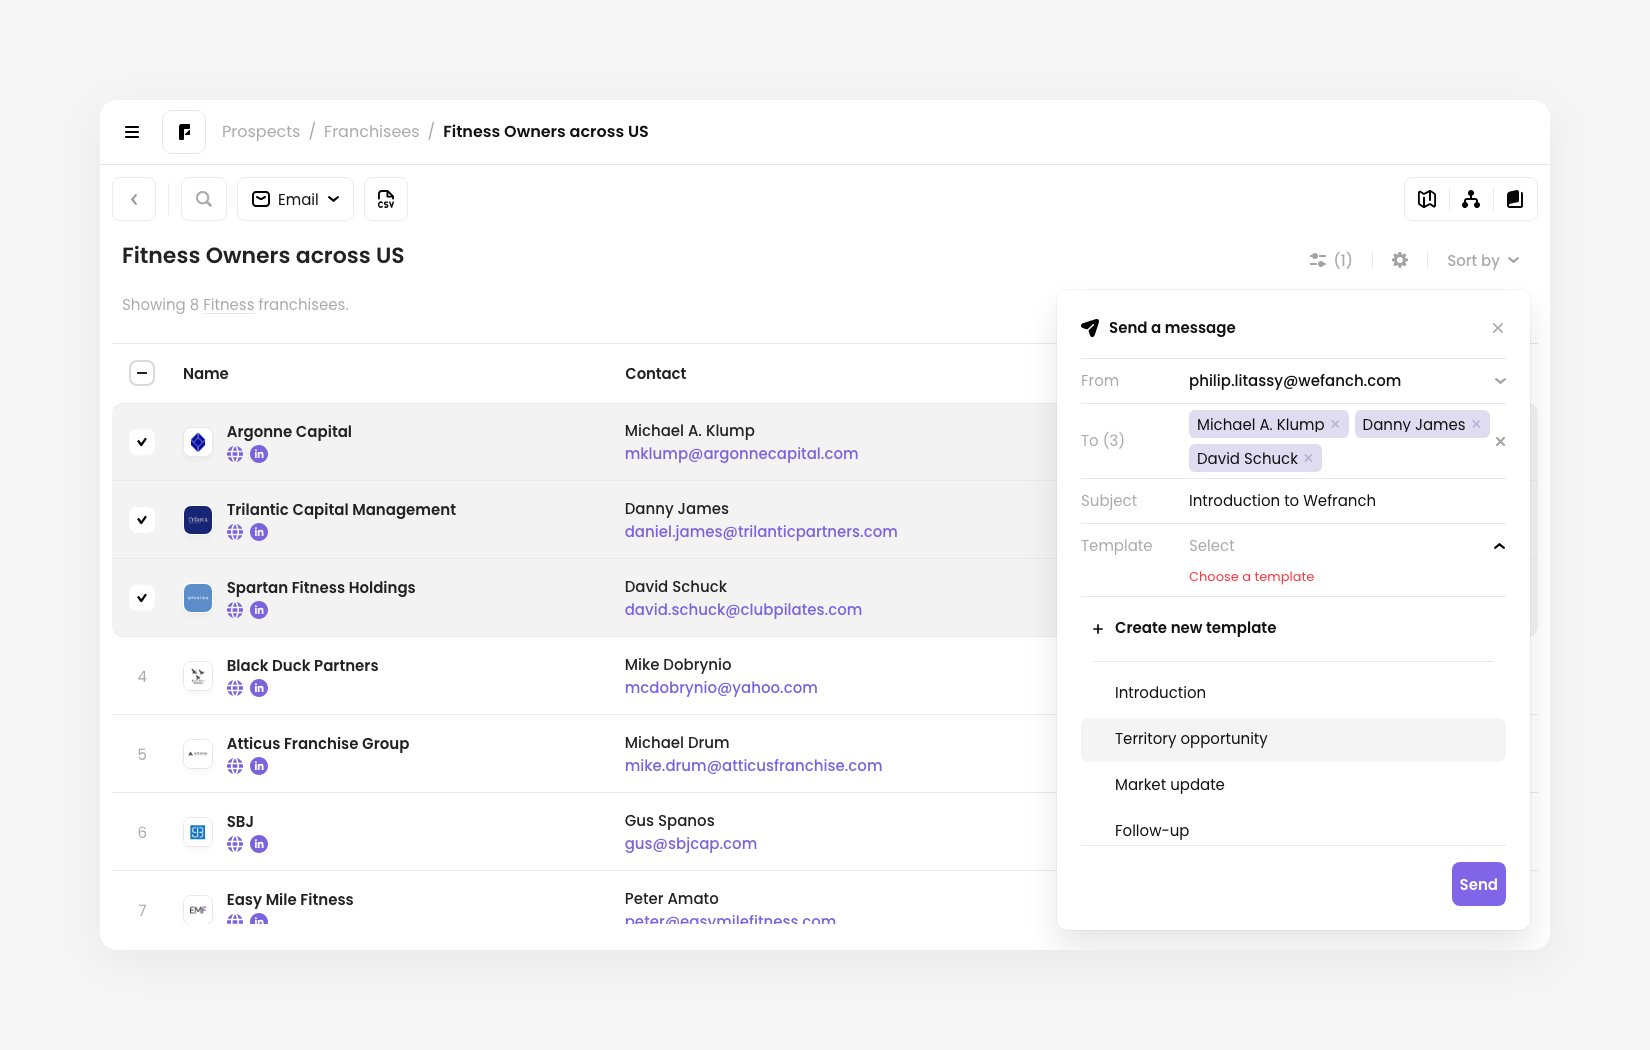
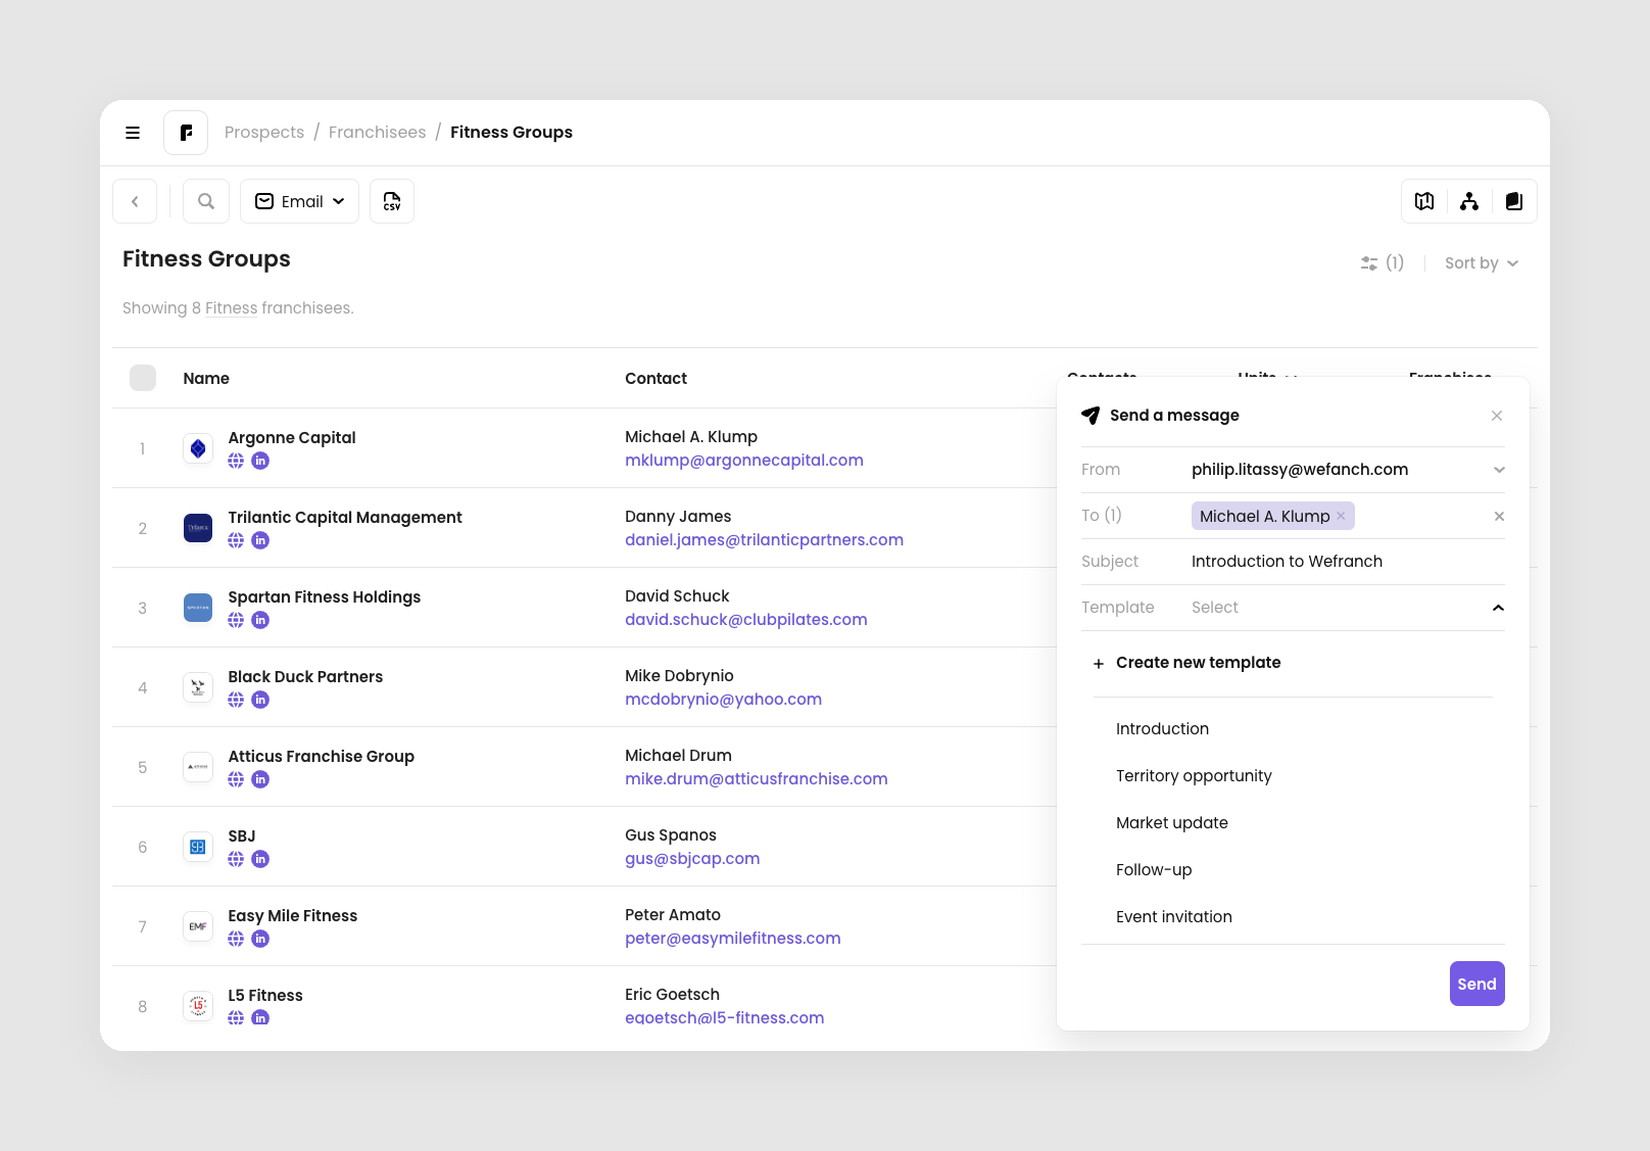
Updated Docs Email Campaigns One-to-One Emailing Updated contact cell actions in CST Table

diff --git a/_prototypes/docs/data/email-campaigns/one-to-one-emailing/index.html b/_prototypes/docs/data/email-campaigns/one-to-one-emailing/index.html
@@ -68,7 +68,7 @@
         <header>
           <h1 class="doc-title">Sending 1:1 direct email messages</h1>
           <div class="doc-meta">
-            <p class="doc-updated">Updated <time datetime="2026-10-13">Oct 13, 2026</time></p>
+            <p class="doc-updated">Updated <time datetime="2026-10-20">Oct 20, 2026</time></p>
             <span class="doc-meta-divider" aria-hidden="true"></span>
             <button class="doc-markdown" type="button" aria-label="Switch to markdown" data-tooltip="Switch to markdown">
               <img class="doc-markdown-icon" src="../../../../../assets/icons/code-block.svg" alt="" width="16" height="16" />
@@ -79,29 +79,25 @@
 
         <div class="doc-body">
           <h2>How it works</h2>
-          <p>Direct mailing lets you send a pre-built email template to one contact, or to a few, without setting up a campaign. Use it for a quick introduction or a follow-up to someone you found on <a class="ui-link" href="../../../../cst/">Prospects</a>.</p>
+          <p>Direct mailing lets you send a pre-built email template to one contact, without setting up a campaign. Use it for a quick introduction or a follow-up to someone you found on <a class="ui-link" href="../../../../cst/">Prospects</a>.</p>
           <p>You write the message in a small <strong>Send a message</strong> card that opens over the page, so you keep your search and table in view. A message needs a sender, at least one recipient, a subject line, and a template. There is no wizard, no schedule, and no sequence. If you want any of those, create an <a class="ui-link" href="../creating-campaign/">email campaign</a> instead.</p>
 
           <h2>Open the Send a message card</h2>
-          <p>There are three ways to open the card. Each one pre-fills the <strong>To</strong> field for you.</p>
+          <p>There are two ways to open the card. Each one pre-fills the <strong>To</strong> field for you.</p>
 
           <p><strong>Click an email address.</strong> Hover over a contact's email address in the table. A <strong>Send a message</strong> tooltip appears. Click the address to open the card with that contact as the only recipient.</p>
           <figure class="doc-figure">
             <img src="images/01-email-link.jpg" alt="Prospects table with the mouse over a contact's email address and a Send a message tooltip." />
           </figure>
 
-          <p><strong>Use the contact menu.</strong> Hover over a contact and click the <strong>three-dot</strong> button next to the email address, then choose <strong>Send message</strong>. The menu also has <strong>Add to leads</strong>, <strong>Copy email</strong>, and <strong>Hide from results</strong>.</p>
+          <p><strong>Use the contact menu.</strong> Hover over a contact and click the <strong>three-dot</strong> button next to the email address, then choose <strong>Send message</strong>. The menu also has <strong>Copy email</strong> and <strong>Hide from results</strong>.</p>
           <figure class="doc-figure">
-            <img src="images/02-more-menu.jpg" alt="Contact menu with Add to leads, Send message, Copy email, and Hide from results." />
+            <img src="images/02-more-menu.jpg" alt="Contact menu with Send message, Copy email, and Hide from results." />
           </figure>
 
-          <p><strong>Select several rows.</strong> To write to more than one contact, tick the rows you want, then open the <strong>Email</strong> menu in the toolbar and choose <strong>Send a message</strong>. The number in brackets is how many rows you selected. The option only appears when at least one row is selected.</p>
+          <p>The Send a message card opens in the bottom right corner with that contact in the <strong>To</strong> field.</p>
           <figure class="doc-figure">
-            <img src="images/03-select-rows.jpg" alt="Email menu with three rows selected, showing Send a message (3)." />
-          </figure>
-          <p>The card opens in the bottom right corner with the selected contacts in the <strong>To</strong> field. If you change your row selection while the card is open, the <strong>To</strong> field updates to match.</p>
-          <figure class="doc-figure">
-            <img src="images/04-message-card.jpg" alt="Send a message card with From, To (3), Subject, and Template fields." />
+            <img src="images/04-message-card.jpg" alt="Send a message card with From, To, Subject, and Template fields." />
           </figure>
 
           <h2>Choose a sender</h2>
@@ -111,19 +107,15 @@
           </figure>
 
           <h2>Check the recipients</h2>
-          <p>Each recipient in <strong>To</strong> is shown as a chip, and the label counts them, for example <strong>To (3)</strong>.</p>
+          <p>Each recipient in <strong>To</strong> is shown as a chip, and the label counts them, for example <strong>To (1)</strong>.</p>
           <ul>
             <li><span>Click the <strong>×</strong> on a chip to remove that person. Click the <strong>×</strong> at the end of the field to remove everyone.</span></li>
-            <li><span>Start typing a name, company, or email address to add someone else. The suggestions come from the contacts in your current results, so contacts you hid from results are not offered.</span></li>
             <li><span>A person is only added once, even if they appear in your results more than once.</span></li>
           </ul>
-          <figure class="doc-figure">
-            <img src="images/06-recipients.jpg" alt="To field with the text gus typed and one matching contact suggested." />
-          </figure>
 
           <h2>Write the subject and choose a template</h2>
           <p>Enter a <strong>Subject</strong>. It can be up to 150 characters.</p>
-          <p>Then open <strong>Template</strong> and pick the email to send. The card expands to list your saved templates: Introduction, Territory opportunity, Market update, Follow-up, and Event invitation. Choose <strong>Create new template</strong> at the top if none of them fit.</p>
+          <p>Then open <strong>Template</strong> and pick the email template to use. The card expands to list your saved templates. Choose <strong>Create new template</strong> at the top if none of them fit.</p>
           <figure class="doc-figure">
             <img src="images/07-template-picker.jpg" alt="Template list with Create new template, Introduction, Territory opportunity, Market update, and Follow-up." />
           </figure>

diff --git a/scripts/prototype-screenshot.js b/scripts/prototype-screenshot.js
@@ -15,6 +15,24 @@
     blur: 42,
     color: "rgba(0, 0, 0, 0.06)",
   };
+  // Focus highlight for doc figures. The wash is the same gray as the margin
+  // behind those images (#e6e6e6), at 65% opacity. The circle stays sharp:
+  // white 4px inner border at 35% opacity, plus a soft shadow outside the ring.
+  // Ordinary screenshots leave this off. Opt in with take({ highlight }).
+  const FOCUS_OVERLAY_COLOR = "#e6e6e6";
+  const FOCUS_OVERLAY_OPACITY = 0.65;
+  const FOCUS_BORDER_WIDTH = 4;
+  const FOCUS_BORDER_OPACITY = 0.35;
+  const FOCUS_SHADOW_ALPHA = 0.16;
+  const FOCUS_SHADOW_BLUR = 7;
+  const FOCUS_HIGHLIGHT = {
+    overlayColor: FOCUS_OVERLAY_COLOR,
+    overlayOpacity: FOCUS_OVERLAY_OPACITY,
+    borderColor: "#ffffff",
+    borderOpacity: FOCUS_BORDER_OPACITY,
+    borderWidth: FOCUS_BORDER_WIDTH,
+    shadowBlur: FOCUS_SHADOW_BLUR,
+  };
   let rendererLoader = null;
 
   const nextPaint = (targetWindow) => new Promise((resolve) => {
@@ -1022,7 +1040,120 @@
     return card;
   };
 
-  const composeBackground = (dataUrl, { transparent = false, scale = 1 } = {}) => new Promise((resolve, reject) => {
+  const resolveHighlight = (highlight, { margin = 0, scale = 1 } = {}) => {
+    if (!highlight) {
+      return null;
+    }
+
+    const x = Number(highlight.x);
+    const y = Number(highlight.y);
+    const radius = Number(highlight.radius);
+    if (![x, y, radius].every(Number.isFinite) || radius <= 0) {
+      return null;
+    }
+
+    return {
+      x: x * scale + margin,
+      y: y * scale + margin,
+      radius: radius * scale,
+    };
+  };
+
+  const applyFocusHighlight = (context, canvas, highlight, scale = 1) => {
+    const placed = highlight.radius ? highlight : null;
+    if (!placed) {
+      return;
+    }
+
+    context.save();
+    context.shadowColor = "transparent";
+    context.shadowOffsetX = 0;
+    context.shadowOffsetY = 0;
+    context.shadowBlur = 0;
+
+    const { x, y, radius } = placed;
+    const borderWidth = FOCUS_BORDER_WIDTH * scale;
+    const overlay = document.createElement("canvas");
+    overlay.width = canvas.width;
+    overlay.height = canvas.height;
+    const overlayContext = overlay.getContext("2d");
+    if (!overlayContext) {
+      context.restore();
+      return;
+    }
+
+    overlayContext.fillStyle = FOCUS_OVERLAY_COLOR;
+    overlayContext.globalAlpha = FOCUS_OVERLAY_OPACITY;
+    overlayContext.fillRect(0, 0, overlay.width, overlay.height);
+    overlayContext.globalCompositeOperation = "destination-out";
+    overlayContext.globalAlpha = 1;
+    overlayContext.beginPath();
+    overlayContext.arc(x, y, radius, 0, Math.PI * 2);
+    overlayContext.fill();
+    context.drawImage(overlay, 0, 0);
+
+    const halo = document.createElement("canvas");
+    halo.width = canvas.width;
+    halo.height = canvas.height;
+    const haloContext = halo.getContext("2d");
+    if (!haloContext) {
+      context.restore();
+      return;
+    }
+
+    haloContext.shadowColor = `rgba(0, 0, 0, ${FOCUS_SHADOW_ALPHA})`;
+    haloContext.shadowBlur = FOCUS_SHADOW_BLUR * scale;
+    haloContext.strokeStyle = `rgba(0, 0, 0, ${FOCUS_SHADOW_ALPHA})`;
+    haloContext.lineWidth = borderWidth;
+    haloContext.beginPath();
+    haloContext.arc(x, y, radius, 0, Math.PI * 2);
+    haloContext.stroke();
+    haloContext.shadowColor = "transparent";
+    haloContext.globalCompositeOperation = "destination-out";
+    haloContext.beginPath();
+    haloContext.arc(x, y, radius, 0, Math.PI * 2);
+    haloContext.fill();
+    context.drawImage(halo, 0, 0);
+
+    context.save();
+    context.strokeStyle = `rgba(255, 255, 255, ${FOCUS_BORDER_OPACITY})`;
+    context.lineWidth = borderWidth;
+    context.beginPath();
+    context.arc(x, y, Math.max(0, radius - borderWidth / 2), 0, Math.PI * 2);
+    context.stroke();
+    context.restore();
+    context.restore();
+  };
+
+  const composeHighlight = (dataUrl, highlight, scale = 1) => new Promise((resolve, reject) => {
+    const placed = resolveHighlight(highlight, { scale });
+    if (!placed) {
+      resolve(dataUrl);
+      return;
+    }
+
+    const image = new Image();
+    image.onload = () => {
+      const canvas = document.createElement("canvas");
+      canvas.width = image.naturalWidth;
+      canvas.height = image.naturalHeight;
+      const context = canvas.getContext("2d");
+      if (!context) {
+        reject(new Error("Failed to compose the focus highlight."));
+        return;
+      }
+
+      context.drawImage(image, 0, 0);
+      applyFocusHighlight(context, canvas, placed, scale);
+      resolve(canvas.toDataURL("image/png"));
+    };
+    image.onerror = () => {
+      reject(new Error("Failed to compose the focus highlight."));
+    };
+    image.src = dataUrl;
+  });
+
+  const composeBackground = (dataUrl, { transparent = false, scale = 1, highlight = null } = {}) => new Promise((resolve, reject) => {
     const image = new Image();
     image.onload = () => {
       const canvas = document.createElement("canvas");
@@ -1045,6 +1176,10 @@
       context.shadowBlur = BACKGROUND_SHADOW.blur * scale;
       context.shadowColor = BACKGROUND_SHADOW.color;
       context.drawImage(card, margin, margin);
+      const placed = resolveHighlight(highlight, { margin, scale });
+      if (placed) {
+        applyFocusHighlight(context, canvas, placed, scale);
+      }
       resolve(canvas.toDataURL("image/png"));
     };
     image.onerror = () => {
@@ -1059,6 +1194,7 @@
     background = false,
     transparent = false,
     scale = 1,
+    highlight = null,
   } = {}) => {
     if (targetWindow.location.protocol === "file:") {
       throw new Error("Open the prototype through localhost to take a screenshot.");
@@ -1067,7 +1203,9 @@
     const captureScale = scale >= 2 ? 2 : 1;
     let dataUrl = await render(targetWindow, { scale: captureScale });
     if (background) {
-      dataUrl = await composeBackground(dataUrl, { transparent, scale: captureScale });
+      dataUrl = await composeBackground(dataUrl, { transparent, scale: captureScale, highlight });
+    } else if (highlight) {
+      dataUrl = await composeHighlight(dataUrl, highlight, captureScale);
     }
 
     fileName = fileName || getFileName(targetWindow, captureScale);
@@ -1085,5 +1223,6 @@
   window.wefranchPrototypeScreenshot = {
     render,
     take,
+    focusHighlight: FOCUS_HIGHLIGHT,
   };
 })();

diff --git a/_prototypes/cst/scripts/07-table-sort.js b/_prototypes/cst/scripts/07-table-sort.js
@@ -464,6 +464,7 @@ function renderFranchisees(rows) {
   tableBody.innerHTML = rows
     .map(
       (owner, rowIndex) => {
+        const hasSavedLead = savedLeadOwnerIndexes.has(owner.originalIndex);
         const isContactHidden = hiddenContactOwnerIndexes.has(owner.originalIndex);
         const isChecked = selectedFranchiseeIndexes.has(owner.originalIndex);
         const isRowSelected = activeDetailOwnerIndex === owner.originalIndex
@@ -502,7 +503,7 @@ function renderFranchisees(rows) {
             </div>
           </td>
           <td class="contact-cell">
-            <div class="contact-cell-action has-more-menu ${isContactHidden ? "is-contact-hidden" : ""}">
+            <div class="contact-cell-action has-more-menu ${hasSavedLead ? "is-lead-saved" : ""} ${isContactHidden ? "is-contact-hidden" : ""}">
               <button
                 class="ui-control contact-profile-action"
                 type="button"
@@ -522,6 +523,13 @@ function renderFranchisees(rows) {
                   aria-label="More actions for ${owner.contactName}"
                   aria-haspopup="menu"
                   aria-expanded="false"
+                ></button>
+                <button
+                  class="ui-control contact-add-lead-action ${hasSavedLead ? "is-saved" : ""}"
+                  type="button"
+                  data-owner-index="${owner.originalIndex}"
+                  aria-label="${hasSavedLead ? `Remove ${owner.contactName} from leads` : `Save ${owner.contactName} as a lead`}"
+                  data-tooltip="${hasSavedLead ? "Remove from leads" : "Save as lead"}"
                 ></button>
               </div>
             </div>
@@ -961,6 +969,7 @@ function getDatasetFranchiseCellMarkup(row) {
 function getDatasetEmailCellMarkup(row) {
   const email = normalizeDatasetCellValue(row.email);
   const isHidden = isProspectRowHidden(row);
+  const hasSavedLead = isProspectRowLeadSaved(row);
   const stateKey = getProspectRowStateKey(row);
   const labelName = row.name || "this contact";
   const emailMarkup = email
@@ -968,7 +977,7 @@ function getDatasetEmailCellMarkup(row) {
     : getDatasetCellValueMarkup("", "location-table-email");
 
   return `
-    <div class="contact-cell-action contact-email-cell has-more-menu ${isHidden ? "is-contact-hidden" : ""}">
+    <div class="contact-cell-action contact-email-cell has-more-menu ${hasSavedLead ? "is-lead-saved" : ""} ${isHidden ? "is-contact-hidden" : ""}">
       <span class="contact-email-text">${emailMarkup}</span>
       <div class="contact-row-actions">
         <button
@@ -978,6 +987,13 @@ function getDatasetEmailCellMarkup(row) {
           aria-label="More actions for ${labelName}"
           aria-haspopup="menu"
           aria-expanded="false"
+        ></button>
+        <button
+          class="ui-control contact-add-lead-action prospect-add-lead-action ${hasSavedLead ? "is-saved" : ""}"
+          type="button"
+          data-prospect-row-key="${stateKey}"
+          aria-label="${hasSavedLead ? `Remove ${labelName} from leads` : `Save ${labelName} as a lead`}"
+          data-tooltip="${hasSavedLead ? "Remove from leads" : "Save as lead"}"
         ></button>
       </div>
     </div>

diff --git a/_prototypes/cst/scripts/12-contact-action-tooltips.js b/_prototypes/cst/scripts/12-contact-action-tooltips.js
@@ -285,7 +285,6 @@ function getContactMoreMenu() {
     divider.className = "toolbar-dropdown-divider";
     divider.setAttribute("role", "separator");
     contactMoreMenu.append(
-      createContactMoreMenuItem("lead"),
       createContactMoreMenuItem("message"),
       createContactMoreMenuItem("copy"),
       divider,
@@ -339,9 +338,6 @@ function syncContactMoreMenu(context) {
   const { email, name } = context;
 
   contactMoreMenu.setAttribute("aria-label", `Actions for ${name || email || "contact"}`);
-  setContactMoreMenuItem("lead", context.isLeadSaved
-    ? { label: "Remove from leads", icon: "leads-remove.svg" }
-    : { label: "Add to leads", icon: "leads-add.svg" });
   setContactMoreMenuItem("message", { label: "Send message", icon: "mail-send.svg?v=2", disabled: !email });
   setContactMoreMenuItem("copy", { label: "Copy email", icon: "copy.svg", disabled: !email });
   setContactMoreMenuItem("hide", context.isHidden
@@ -428,15 +424,6 @@ async function handleContactMoreMenuClick(event) {
   const action = item.dataset.contactMoreAction;
   closeContactMoreMenu({ restoreFocus: event.detail === 0 });
   if (!context) return;
-
-  if (action === "lead") {
-    if (context.prospectRowKey) {
-      handleSaveLeadAction(trigger, null, null, context.prospectRowKey);
-      return;
-    }
-    handleSaveLeadAction(trigger, context.ownerIndex);
-    return;
-  }
 
   if (action === "message") {
     openSendMessageCard({

diff --git a/_prototypes/cst/styles.css b/_prototypes/cst/styles.css
@@ -4966,6 +4966,10 @@ tbody tr.is-checked:hover td:first-child {
   display: none;
 }
 
+.contact-cell-action.has-more-menu.is-lead-saved:not(:hover):not(:focus-within):not(.is-menu-open) .contact-more-action {
+  display: none;
+}
+
 .contact-add-lead-action:hover {
   background: #d9d9d9;
   color: var(--color-text);

diff --git a/_prototypes/shared/ui/proto-modal.css b/_prototypes/shared/ui/proto-modal.css
@@ -18,8 +18,8 @@
   display: grid;
   place-items: center;
   padding: 24px;
-  background: rgba(255, 255, 255, 0.62);
-  backdrop-filter: blur(10px);
+  background: rgba(240, 240, 240, 0.6);
+  backdrop-filter: blur(4px);
   opacity: 0;
   pointer-events: none;
   transition: opacity 240ms ease;
